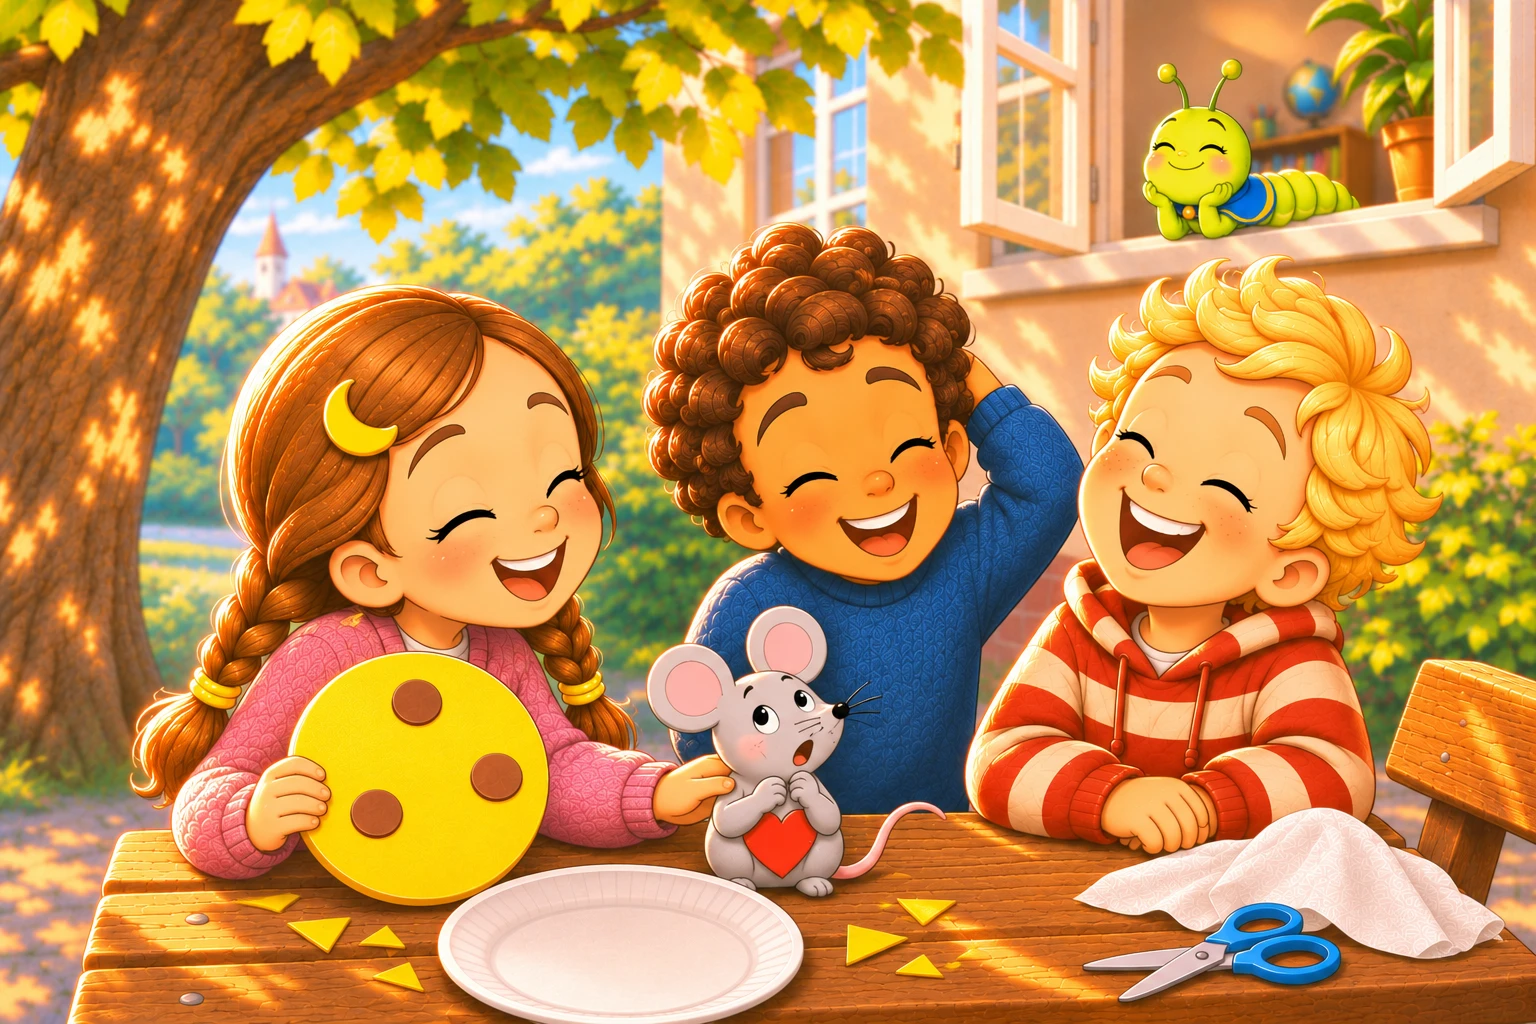
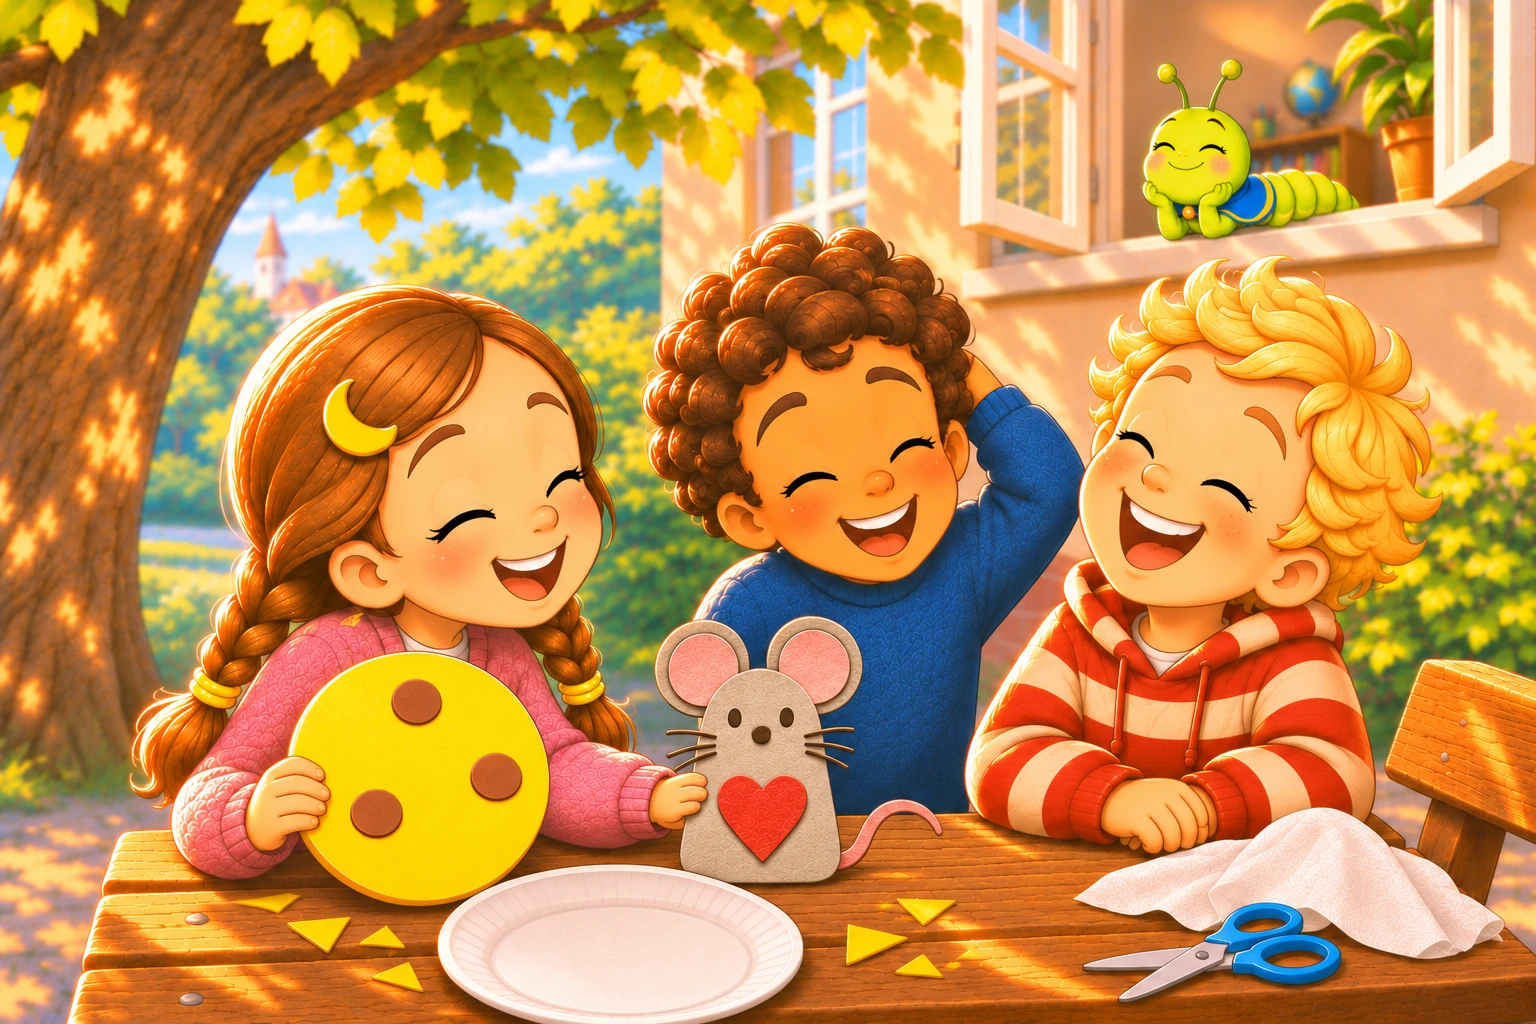
Papiermaus in allen Bildern vereinheitlicht
Claude-Session: https://claude.ai/code/session_01XbiCnEqQP9NvUt61GCCstW

diff --git a/02_design/BILDER_STATUS.md b/02_design/BILDER_STATUS.md
@@ -6,9 +6,9 @@
 
 **k4_s20_spiel** — ✅ готово.
 
-**Мышь** — должна быть плоской бумажной фигуркой, сердце наклеено на живот, ничего не держит (эталон `assets/reference/maus_referenz.png`). Исправить: k2_s9, k3_s13, k3_s14, k3_s15, k3_s16_vorher, k3_s16_nachher, k3_s17, k3_s18, kapitel_3, k4_s20_nachher.
+**Мышь** — ✅ исправлена во всех 10 картинках (плоская бумажная, эталон `assets/reference/maus_referenz.png`).
 
-**Крыша театра** — низкая ровная дуга между шариками, как в k1_s1 (эталон `assets/reference/theater_dach_referenz.png`). Исправить: k1_s2_nachher, k4_s20_vorher, k4_s20_nachher, k4_s24, cover, k4_s22, k4_s23, finale_bild.
+**Крыша театра** — низкая ровная дуга между шариками, как в k1_s1 (эталон `assets/reference/theater_dach_referenz.png`). Исправить: k1_s2_nachher, k4_s20_vorher, k4_s20_nachher (мышь уже исправлена — править только крышу), k4_s24, cover, k4_s22, k4_s23, finale_bild.
 
 Оставлено сознательно: в k2_s9 скамейка со спинкой, дальше — столик со скамьями.
 
